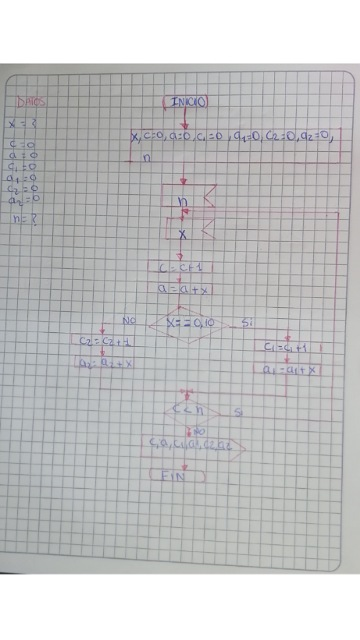
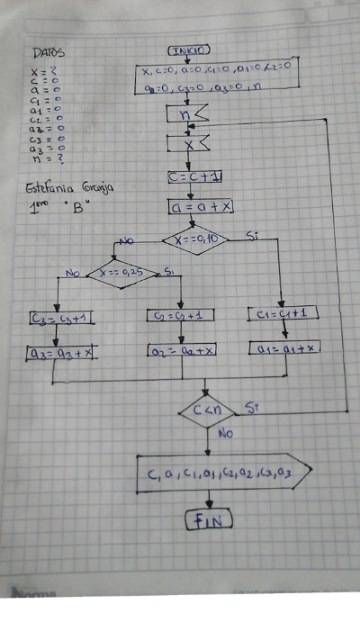
Diagrama Cuenta Moneda

diff --git a/GranjaEstefania/ACTIVIDAD-B2/GranjaEstefania-CuentaMoneda.cpp b/GranjaEstefania/ACTIVIDAD-B2/GranjaEstefania-CuentaMoneda.cpp
@@ -2,29 +2,33 @@
 using namespace std;
 int main()
 {
-	int n,c=0,c1=0,c2=0;
-	float x,a=0,a1=0,a2=0;
+	int n,c=0,c1=0,c2=0,c3=0;
+	float x,a=0,a1=0,a2=0,a3=0;
 	cout<<"Cantidad de monedas a ingresar: ";
 	cin>>n;
 	do{
-		cout<<"Ingrese el valor de la moneda (0.10,0.25): ";
+		cout<<"Ingrese el valor de la moneda (0.10,0.25,0.50): ";
 	   cin>>x;
 	   c=c+1;
 	   a=a+x;
 	   if(x==(float)0.10){
 	   c1=c1+1;
 	   a1=a1+x;
-	   }else{
+	   }else if(x==(float)0.25){
 	   c2=c2+1;
 	   a2=a2+x;
-	   }
+	   }else {
+	   c3=c3+1;
+	   a3=a3+x;}
 	}while(c<n);
 	cout<<"El resultado fue: "<<endl;
 	cout<<"Cantidad de monedas ingresadas: "<<c<<endl;
-	cout<<"Cantidad total en dinero contado: "<<a<<endl;
-	cout<<"Cantidad de monedas de 0.10 ctv ingresadas: "<<c1<<endl;
-	cout<<"Cantidad total en dinero de monedas de 0.10: "<<a1<<endl;
-	cout<<"Cantidad de monedas de 0.25ctv  ingresadas: "<<c2<<endl;
-	cout<<"Cantidad total en dinero de monedas de 0.25: "<<a2<<endl;
+	cout<<"Cantidad total en dinero contado: $ "<<a<<endl;
+	cout<<"Cantidad de monedas de 0.10ctv ingresadas: "<<c1<<endl;
+	cout<<"Cantidad total en dinero de monedas de 0.10: $"<<a1<<endl;
+	cout<<"Cantidad de monedas de 0.25ctv ingresadas: "<<c2<<endl;
+	cout<<"Cantidad total en dinero de monedas de 0.25: $"<<a2<<endl;
+	cout<<"Cantidad de monedas de 0.50ctv ingresadas: "<<c3<<endl;
+	cout<<"Cantidad total en dinero de monedas de 0.50: $"<<a3<<endl;
 	return 0;
 }
